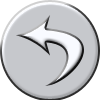
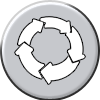
Se han arreglado varias cosas

Changed region(s): [[0.12, 0.15, 0.87, 0.87]]

diff --git a/src/com/holycow/manager/ResourcesManager.java b/src/com/holycow/manager/ResourcesManager.java
@@ -67,6 +67,8 @@ public class ResourcesManager
 	public ITextureRegion menu_background_region;
 	public ITextureRegion play_region;
 	public ITextureRegion options_region;
+	public ITextureRegion musica_region;
+	public ITextureRegion sonido_region;
 	public ITextureRegion personaje1_region;
 	public ITextureRegion personaje2_region;
 	public ITextureRegion personaje3_region;
@@ -102,6 +104,9 @@ public class ResourcesManager
 	public ITextureRegion saltar_region;
 	public ITextureRegion pausa_region;
 	public ITextureRegion reanudar_region;
+	public ITextureRegion atacar_region;
+	public ITextureRegion reiniciar_region;
+	public ITextureRegion volver_menu_region;
 	public ITextureRegion reloj_region;
 	public ITextureRegion fondo_region;
 	public ITextureRegion fondo2_region;
@@ -169,6 +174,8 @@ public class ResourcesManager
 		menu_background_region = BitmapTextureAtlasTextureRegionFactory.createFromAsset(menuTextureAtlas, activity, "menu_background.png");
 		play_region = BitmapTextureAtlasTextureRegionFactory.createFromAsset(menuTextureAtlas, activity, "play.png");
 		options_region = BitmapTextureAtlasTextureRegionFactory.createFromAsset(menuTextureAtlas, activity, "options.png");
+		musica_region = BitmapTextureAtlasTextureRegionFactory.createFromAsset(menuTextureAtlas, activity, "musica1.png");
+		sonido_region = BitmapTextureAtlasTextureRegionFactory.createFromAsset(menuTextureAtlas, activity, "musica2.png");
 		derecha_region =BitmapTextureAtlasTextureRegionFactory.createFromAsset(menuTextureAtlas, activity, "der.png");
 		
 		
@@ -283,7 +290,7 @@ public class ResourcesManager
 		llave_region =BitmapTextureAtlasTextureRegionFactory.createFromAsset(gameTextureAtlas, activity, "key.png");
 		reloj_region =BitmapTextureAtlasTextureRegionFactory.createFromAsset(gameTextureAtlas, activity, "clock.png");
 		explosion_region = BitmapTextureAtlasTextureRegionFactory.createTiledFromAsset(gameTextureAtlas, activity, "explosion.png", 3, 1);
-
+		
 		fondo2_region =BitmapTextureAtlasTextureRegionFactory.createFromAsset(gameTextureAtlas, activity, "fondo2.png");
 
 		fondo_region =BitmapTextureAtlasTextureRegionFactory.createFromAsset(gameTextureAtlas, activity, "fondo.png");
@@ -293,8 +300,11 @@ public class ResourcesManager
 		derecha_region =BitmapTextureAtlasTextureRegionFactory.createFromAsset(gameTextureAtlas, activity, "der.png");
 		saltar_region =BitmapTextureAtlasTextureRegionFactory.createFromAsset(gameTextureAtlas, activity, "salt.png");
 		pausa_region =BitmapTextureAtlasTextureRegionFactory.createFromAsset(gameTextureAtlas, activity, "pausa.png");
-		reanudar_region =BitmapTextureAtlasTextureRegionFactory.createFromAsset(gameTextureAtlas, activity, "reiniciar.png");
-
+		reanudar_region =BitmapTextureAtlasTextureRegionFactory.createFromAsset(gameTextureAtlas, activity, "reanudar.png");
+		volver_menu_region =BitmapTextureAtlasTextureRegionFactory.createFromAsset(gameTextureAtlas, activity, "volvermenu.png");
+		atacar_region =BitmapTextureAtlasTextureRegionFactory.createFromAsset(gameTextureAtlas, activity, "atacar.png");
+		reiniciar_region =BitmapTextureAtlasTextureRegionFactory.createFromAsset(gameTextureAtlas, activity, "reiniciar.png");
+		
 		complete_window_region = BitmapTextureAtlasTextureRegionFactory.createFromAsset(gameTextureAtlas, activity, "levelCompleteWindow.png");
 		complete_stars_region = BitmapTextureAtlasTextureRegionFactory.createTiledFromAsset(gameTextureAtlas, activity, "star.png", 2, 1);
 

diff --git a/src/com/holycow/scene/GameScene.java b/src/com/holycow/scene/GameScene.java
@@ -642,7 +642,7 @@ public class GameScene extends BaseScene implements IOnSceneTouchListener
 
 		this.registerTouchArea(right);
 
-		volverMenu = new ButtonSprite(500, 50, getResourcesManager().reanudar_region , getVbom(), new OnClickListener() {
+		volverMenu = new ButtonSprite(500, 50, getResourcesManager().volver_menu_region , getVbom(), new OnClickListener() {
 			public void onClick(ButtonSprite pButtonSprite, float pTouchAreaLocalX, float pTouchAreaLocalY) { 
 				LoadingScene.getCargandoText().setPosition(400, 240);
 				SceneManager.getInstance().loadMenuScene(engine);
@@ -652,7 +652,7 @@ public class GameScene extends BaseScene implements IOnSceneTouchListener
 		volverMenu.setVisible(false);
 		volverMenu.setEnabled(false);
 
-		restartJuego = new ButtonSprite(300, 50, getResourcesManager().reanudar_region , getVbom(), new OnClickListener() {
+		restartJuego = new ButtonSprite(300, 50, getResourcesManager().reiniciar_region , getVbom(), new OnClickListener() {
 			public void onClick(ButtonSprite pButtonSprite, float pTouchAreaLocalX, float pTouchAreaLocalY) { 	
 				LoadingScene.getCargandoText().setPosition(camera.getCenterX(), camera.getCenterY());				
 				SceneManager.getInstance().loadGameScene(engine);			

diff --git a/src/com/holycow/scene/MainMenuScene.java b/src/com/holycow/scene/MainMenuScene.java
@@ -328,8 +328,8 @@ public class MainMenuScene extends BaseScene implements IOnMenuItemClickListener
 		optionsChildScene = new MenuScene(camera);
 		optionsChildScene.setPosition(0, 0);
 
-		final IMenuItem musicaMenuItem = new ScaleMenuItemDecorator(new SpriteMenuItem(MUSICA, getResourcesManager().options_region, getVbom()), 0.9f, 1);
-		final IMenuItem sonidoMenuItem = new ScaleMenuItemDecorator(new SpriteMenuItem(SONIDO, getResourcesManager().options_region, getVbom()), 0.9f, 1);
+		final IMenuItem musicaMenuItem = new ScaleMenuItemDecorator(new SpriteMenuItem(MUSICA, getResourcesManager().musica_region, getVbom()), 0.9f, 1);
+		final IMenuItem sonidoMenuItem = new ScaleMenuItemDecorator(new SpriteMenuItem(SONIDO, getResourcesManager().sonido_region, getVbom()), 0.9f, 1);
 
 		optionsChildScene.addMenuItem(musicaMenuItem);
 		optionsChildScene.addMenuItem(sonidoMenuItem);
